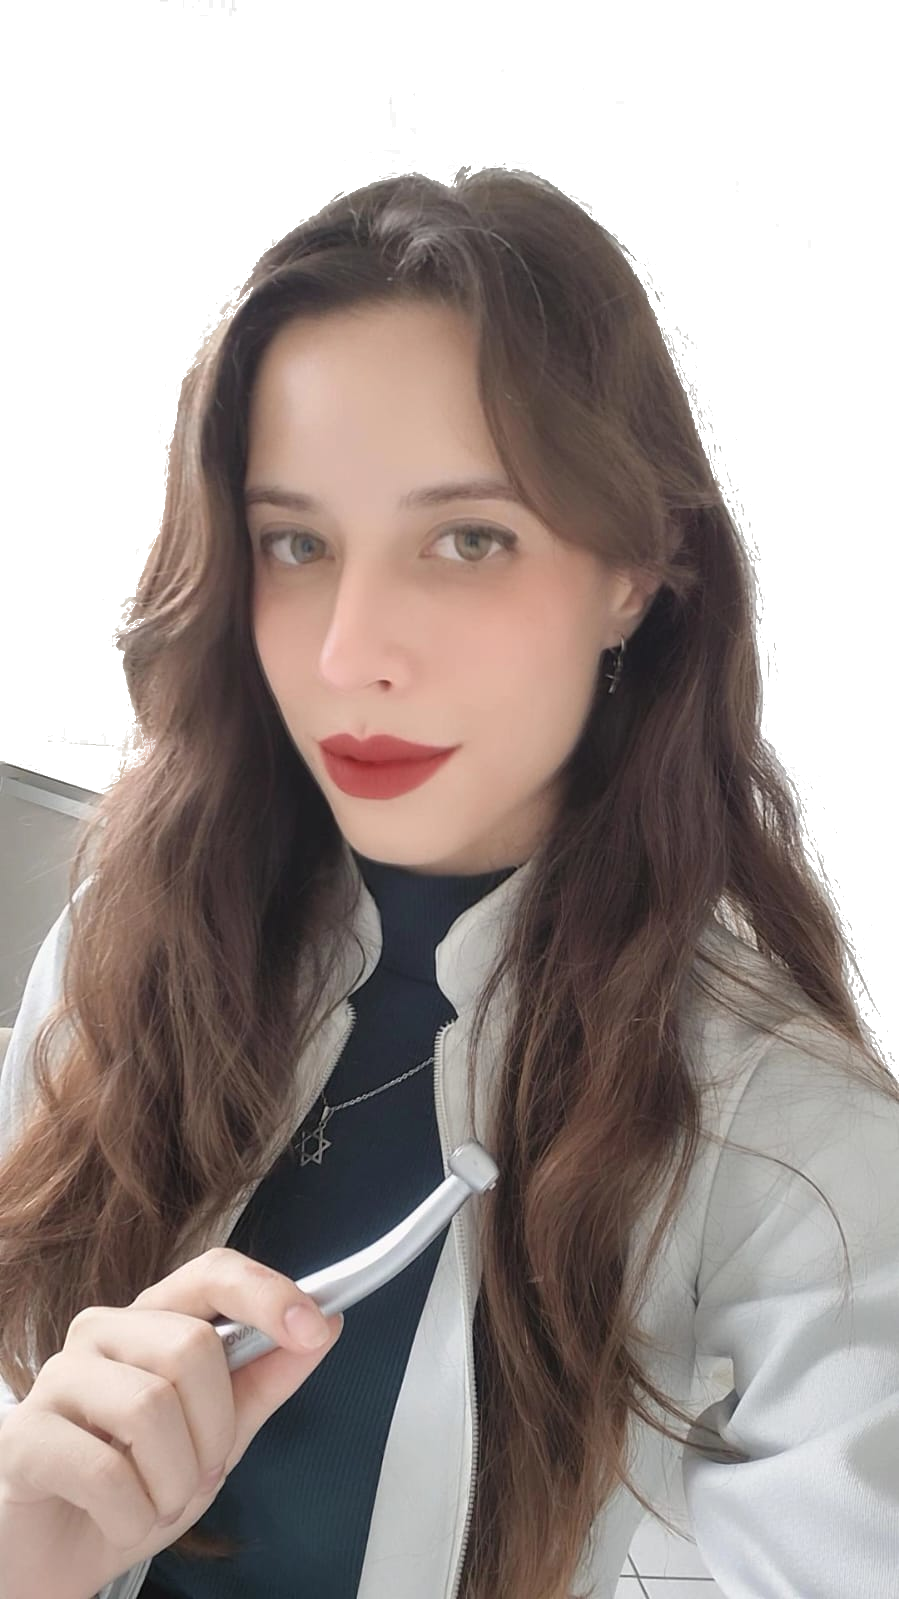
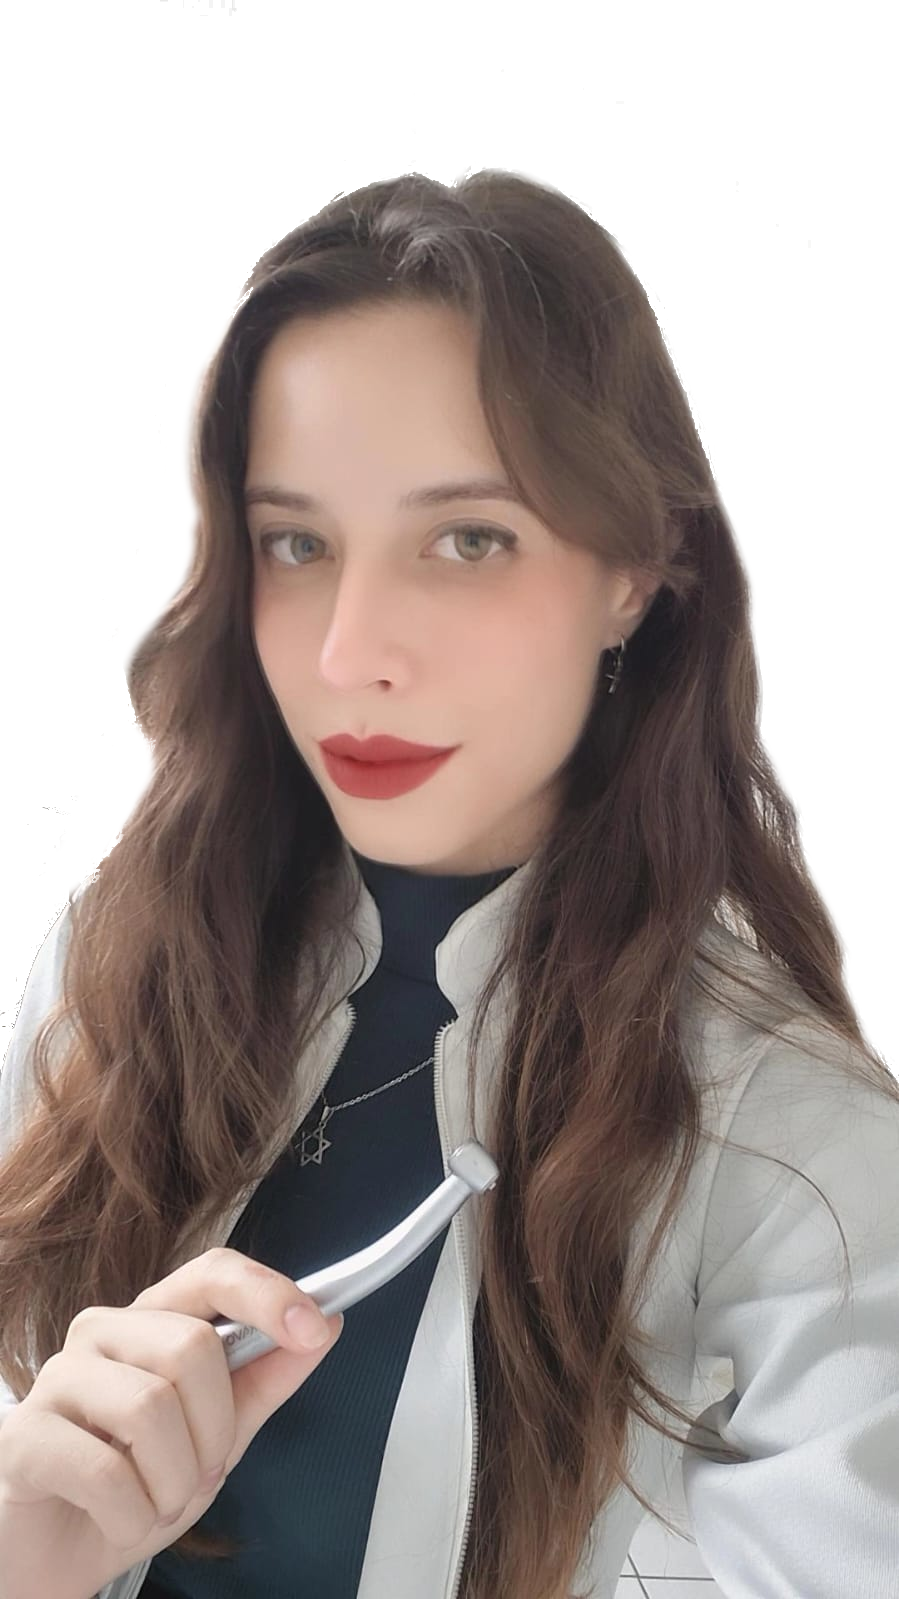
Update hero section styles and improve image presentation.

diff --git a/index.html b/index.html
@@ -212,11 +212,15 @@
       border-radius: 200px 200px 40px 40px;
       overflow: hidden; position: relative;
       box-shadow: 0 30px 80px rgba(92,36,52,0.18);
-      border: 5px solid var(--white);
+      border: 5px solid transparent;
+      background-image: linear-gradient(var(--white), var(--white)), linear-gradient(135deg, var(--rose-glow), var(--cream-deep));
+      background-origin: border-box;
+      background-clip: padding-box, border-box;
     }
     .hero-photo-frame img {
       width: 100%; height: 100%; object-fit: cover;
-      background: linear-gradient(135deg, var(--rose-glow), var(--cream-deep));
+      object-position: center 20%;
+      background: var(--white);
     }
     .hero-float-badge {
       position: absolute; background: var(--white);
@@ -569,14 +573,6 @@
       <div class="hero-photo-wrap fade-up">
         <div class="hero-photo-frame">
           <img src="assets/profile.png" alt="Dra. Giovanna" />
-        </div>
-        <div class="hero-float-badge top-badge">
-          <div class="badge-icon rose">&#10029;</div>
-          <div><strong>+2.000</strong><br><small style="color:var(--text-soft)">Pacientes atendidos</small></div>
-        </div>
-        <div class="hero-float-badge bottom-badge">
-          <div class="badge-icon gold">&#9829;</div>
-          <div><strong>CRO Ativo</strong><br><small style="color:var(--text-soft)">Especialista</small></div>
         </div>
       </div>
     </div>
